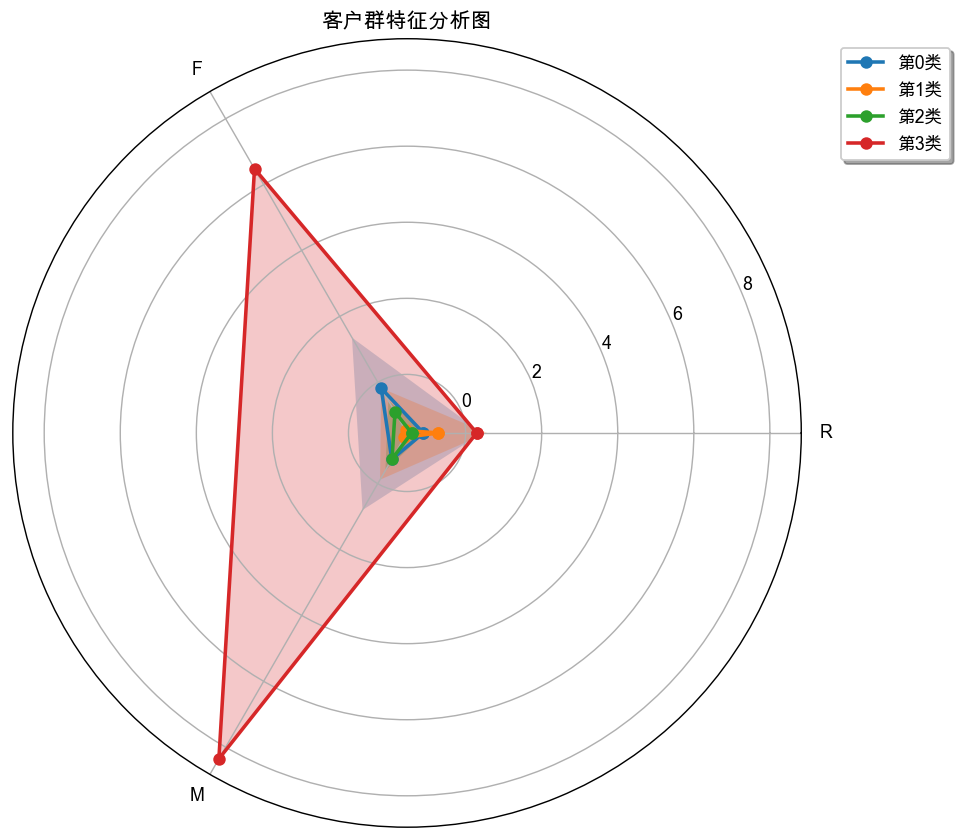
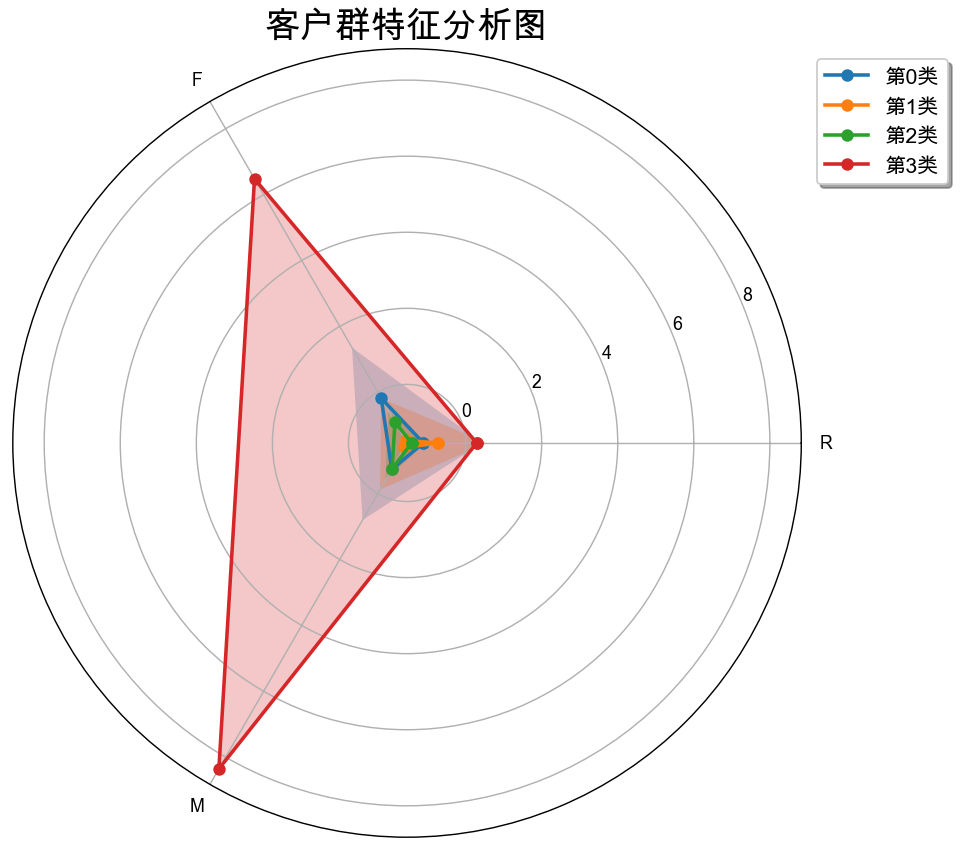
, fontsize=16

diff --git a/K-Means/matlab.py b/K-Means/matlab.py
@@ -10,9 +10,9 @@ plt.rcParams['font.sans-serif'] = 'Arial Unicode MS'
 plt.bar(gender.index, gender, width=0.5, color='c')
 # 完善图表信息
 plt.xticks(range(1,3),['男','女'])    #设置x轴刻度值对应range=[1, 2]
-plt.xlabel('性别')
-plt.ylabel('人数')
-plt.title('性别-人数统计图')
+plt.xlabel('性别', fontsize=12)
+plt.ylabel('人数', fontsize=12)
+plt.title('性别-人数统计图', fontsize=16)
 # 保存图形
 plt.savefig('./data/性别-人数统计图',dpi=128)
 # 展示图形
@@ -28,12 +28,12 @@ plt.rcParams['font.sans-serif'] = 'Arial Unicode MS'
 # 绘制折线图
 plt.plot(age.index, age)
 # 完善图表
-plt.xticks(range(0,80,5))
-plt.yticks(range(2,20))
+plt.xticks(range(0,80,5), fontsize=12)
+plt.yticks(range(2,20), fontsize=12)
 plt.grid(ls=':',alpha=0.8)
-plt.xlabel('年龄')
-plt.ylabel('人数')
-plt.title('年龄-人数统计图')
+plt.xlabel('年龄', fontsize=14)
+plt.ylabel('人数', fontsize=14)
+plt.title('年龄-人数统计图', fontsize=20)
 # 填充折线与x轴间的颜色，使结果更直观，颜色在x轴覆盖范围用age.index标识
 plt.fill_between(age.index, age, color='c', alpha=0.3)
 # 保存图形
@@ -53,7 +53,7 @@ plt.rcParams['font.sans-serif'] = 'Arial Unicode MS'
 # 绘制柱状图
 kmeans_analysis.plot(kind='bar', rot=0, yticks=range(-1,9))
 # 完善图表
-plt.title('聚类结果柱状图')
+plt.title('聚类结果柱状图', fontsize=20)
 plt.xticks(range(0,4), ['第0类','第1类','第2类','第3类'])
 plt.grid(axis='y',color='grey',linestyle='--',alpha=0.5)
 plt.ylabel('R,F,M 3个指标均值')
@@ -70,11 +70,9 @@ plt.rcParams['font.sans-serif'] = 'Arial Unicode MS'
 # 绘制柱状图
 result.plot(kind='bar', y='各类别人数', rot=0)    #使用DataFrame形变量自带的plot()函数来绘图，指定绘图类型为bar
 # 完善图表
-plt.xlabel('类别')
-plt.ylabel('人数')
-# plt.yticks(r1.value_counts())
-# plt.yticks(r1.value_counts())
-plt.title('聚类结果各类别人数统计图')
+plt.xlabel('类别', fontsize=14)
+plt.ylabel('人数', fontsize=14)
+plt.title('聚类结果各类别人数统计图', fontsize=16)
 # 保存图形
 plt.savefig('./data/聚类结果各类别人数统计图',dpi=128)
 
@@ -105,10 +103,10 @@ for i, v in enumerate(center_num):
     ang = angles * 180/np.pi                                         #添加每个特征的标签
     ax.set_thetagrids(ang[:-1], feature)                             #添加每个特征的标签
 
-    plt.title('客户群特征分析图')                                       #添加标题
+    plt.title('客户群特征分析图', fontsize=20)                          #添加标题
     ax.grid()                                                        #添加网格线
-    plt.legend(loc='upper right', bbox_to_anchor=(1.2, 1.0), shadow=True)   #设置图例
-    plt.savefig('./data/客户群特征分析图', dpi=128, bbox_inches='tight')        #保存图形，指定bbox_inches来裁剪图形多余空白区域
+    plt.legend(loc='upper right', bbox_to_anchor=(1.2, 1.0), shadow=True, fontsize=12)   #设置图例
+    plt.savefig('./data/客户群特征分析图', dpi=128, bbox_inches='tight')                    #保存图形，指定bbox_inches来裁剪图形多余空白区域
 
 # 显示图形
 plt.show()

diff --git a/K-Means/K_Means.py b/K-Means/K_Means.py
@@ -24,7 +24,7 @@ plt.plot(x, SEE, 'o-')
 plt.xlabel('k值')
 plt.ylabel('SEE')
 plt.title('肘部图')
-# plt.show()
+plt.show()
 plt.savefig('./data/肘部图')
 
 # 2K-Means聚类分析
